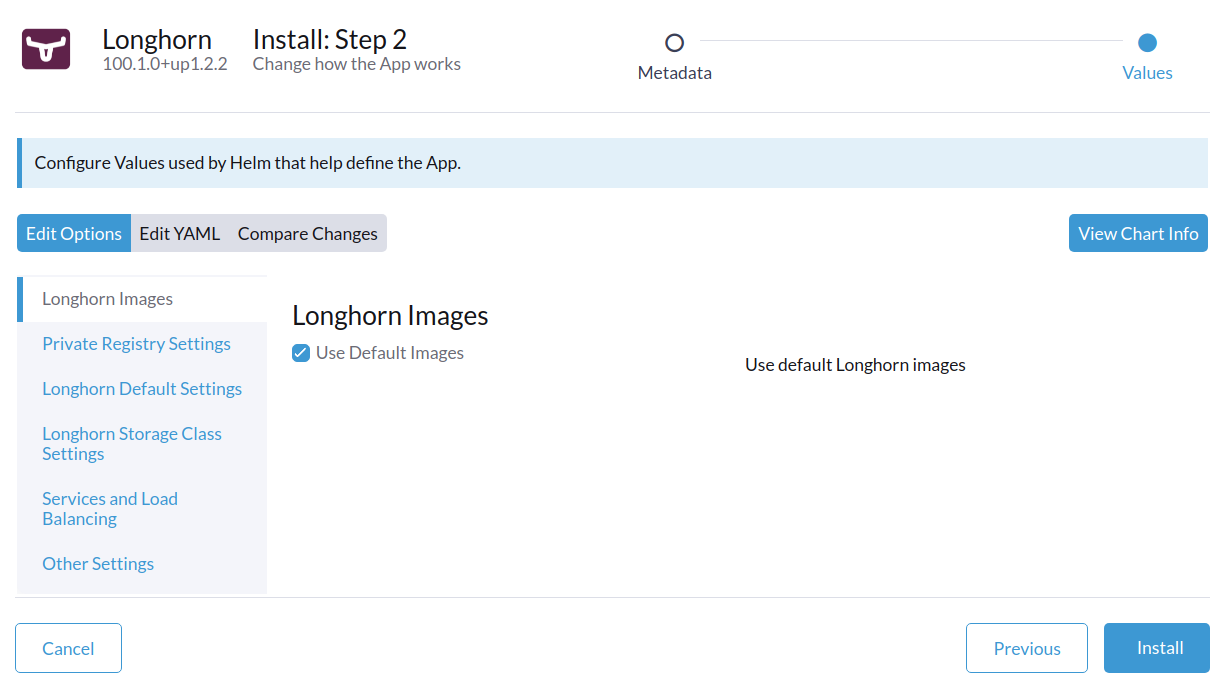
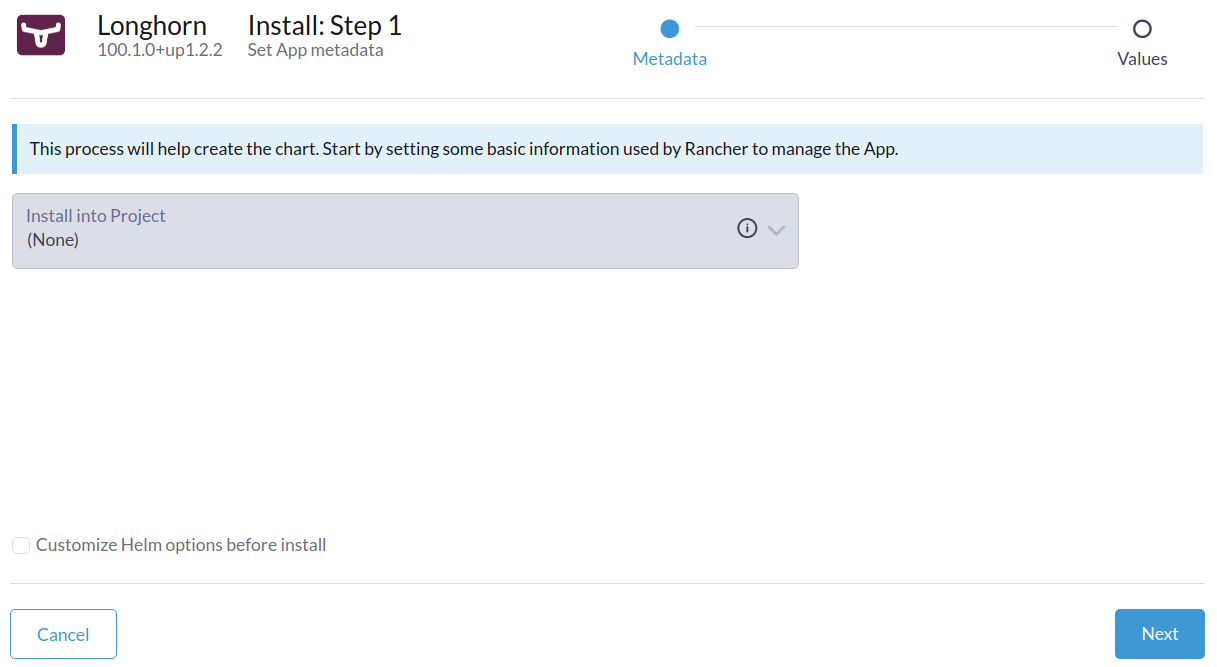
Modify description and add screenshot

diff --git a/content/docs/1.2.2/deploy/install/install-with-rancher.md b/content/docs/1.2.2/deploy/install/install-with-rancher.md
@@ -17,17 +17,20 @@ Each node in the Kubernetes cluster where Longhorn is installed must fulfill [th
 ## Installation
 
 1. Optional: If Rancher version is 2.5.9 or before, we recommend creating a new project for Longhorn, for example, `Storage`.
-2. Navigate to the cluster and project where you will install Longhorn. 
+2. Navigate to the cluster where you will install Longhorn. 
     {{< figure src="/img/screenshots/install/select-project.png" >}}
 3. Navigate to the `Apps & Marketplace` screen.
-4. Find the Longhorn item in the catalog and click it.
+    {{< figure src="/img/screenshots/install/apps-launch.png" >}}
+4. Find the Longhorn item in the charts and click it.
     {{< figure src="/img/screenshots/install/longhorn.png" >}}
-5. Optional: Customize the default settings. 
-6. Click **Install**. Longhorn will be installed in the `longhorn-system` namespace.
+5. Click **Install**.
+    {{< figure src="/img/screenshots/install/longhorn-chart.png" >}}
+6. Optional: Select the project where you want to install Longhorn.
+7. Optional: Customize the default settings.
     {{< figure src="/img/screenshots/install/launch-longhorn.png" >}}
-    Longhorn is now installed.
+8. Click Next. Longhorn will be installed in the longhorn-system namespace.    
     {{< figure src="/img/screenshots/install/installed-longhorn.png" >}}
-7. Click the `Manage storage system via UI` link to navigate to the Longhorn dashboard.
+9. Click the Longhorn App Icon to navigate to the Longhorn dashboard.
     {{< figure src="/img/screenshots/install/dashboard.png" >}}
 
 After Longhorn has been successfully installed, you can access the Longhorn UI by navigating to the `Longhorn` option from Rancher left panel.
